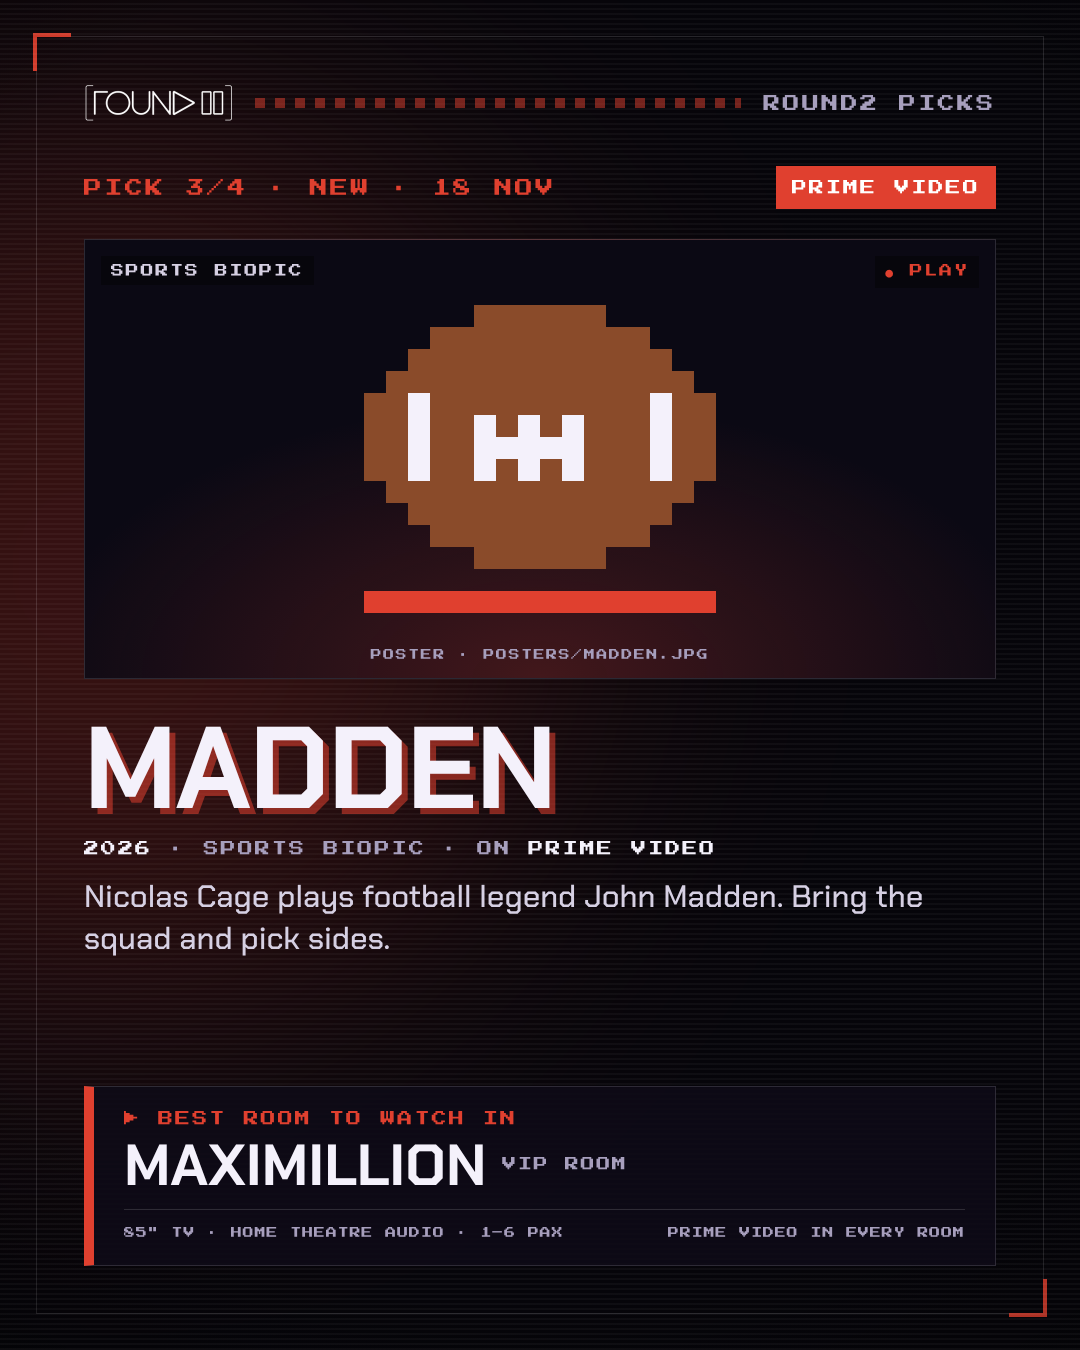
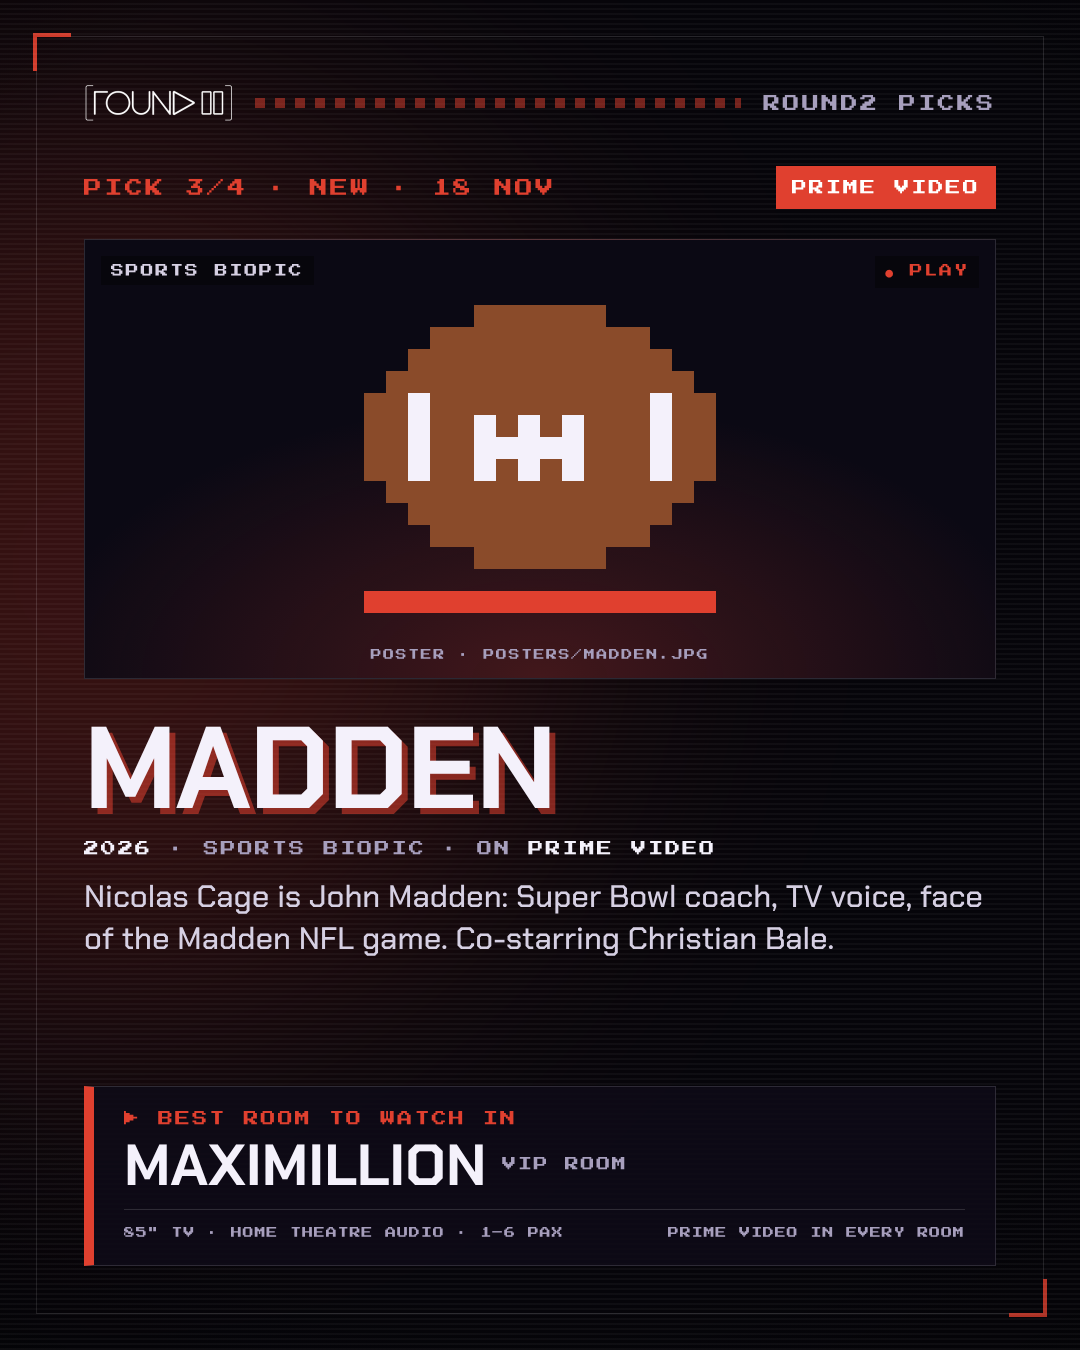
Round2 Picks: real plot descriptions for issue 01
Claude-Session: https://claude.ai/code/session_01PDkwSCLDYKchcH27nujJvW

Changed region(s): [[0.0917, 0.6533, 0.9167, 0.7156]]

diff --git a/marketing/ig-movie-picks/index.html b/marketing/ig-movie-picks/index.html
@@ -114,16 +114,16 @@ const ISSUE = {
   // poster: drop the official poster or key art (landscape fills the screen; portrait sits centred on a blurred fill) into posters/ with this file name. Missing → 8-bit placeholder.
   picks: [
     { title: 'Heartland', service: 'Netflix', when: 'New · 13 Nov', genre: 'Thriller', year: '2026',
-      why: 'A Netflix original thriller led by Jessica Chastain. Lights off, phones face down.',
+      why: 'Retired country star Misty Jones (Jessica Chastain) comes out of hiding to find her missing niece, and gets pulled into Nashville’s criminal underworld.',
       room: 'Scarlett', poster: 'posters/heartland.jpg', sprite: 'house', },
-    { title: 'Possible Love', service: 'Netflix', when: 'New · 6 Nov', genre: 'Korean cinema', year: '2026',
-      why: 'The new film from Lee Chang-dong, the director of Burning. One for a slow, quiet night in.',
+    { title: 'Possible Love', service: 'Netflix', when: 'New · 6 Nov', genre: 'Korean drama', year: '2026',
+      why: 'A documentary filmmaker starts filming another married couple, and both marriages begin to crack. Lee Chang-dong’s first film in eight years.',
       room: 'Kai', poster: 'posters/possible-love.jpg', sprite: 'heart', },
     { title: 'Madden', service: 'Prime Video', when: 'New · 18 Nov', genre: 'Sports biopic', year: '2026',
-      why: 'Nicolas Cage plays football legend John Madden. Bring the squad and pick sides.',
+      why: 'Nicolas Cage is John Madden: Super Bowl coach, TV voice, face of the Madden NFL game. Co-starring Christian Bale.',
       room: 'Maximillion', poster: 'posters/madden.jpg', sprite: 'ball', },
     { title: 'Dune', service: 'HBO Max', when: 'Streaming now', genre: 'Sci-fi epic', year: '2021',
-      why: 'Villeneuve’s desert epic was made for a big screen and a lot of bass.',
+      why: 'Paul Atreides (Timothée Chalamet) follows his family to Arrakis, the desert planet everyone wants, and is caught in the war for it.',
       room: 'Atlas', poster: 'posters/dune.jpg', sprite: 'dune', },
   ],
 };
